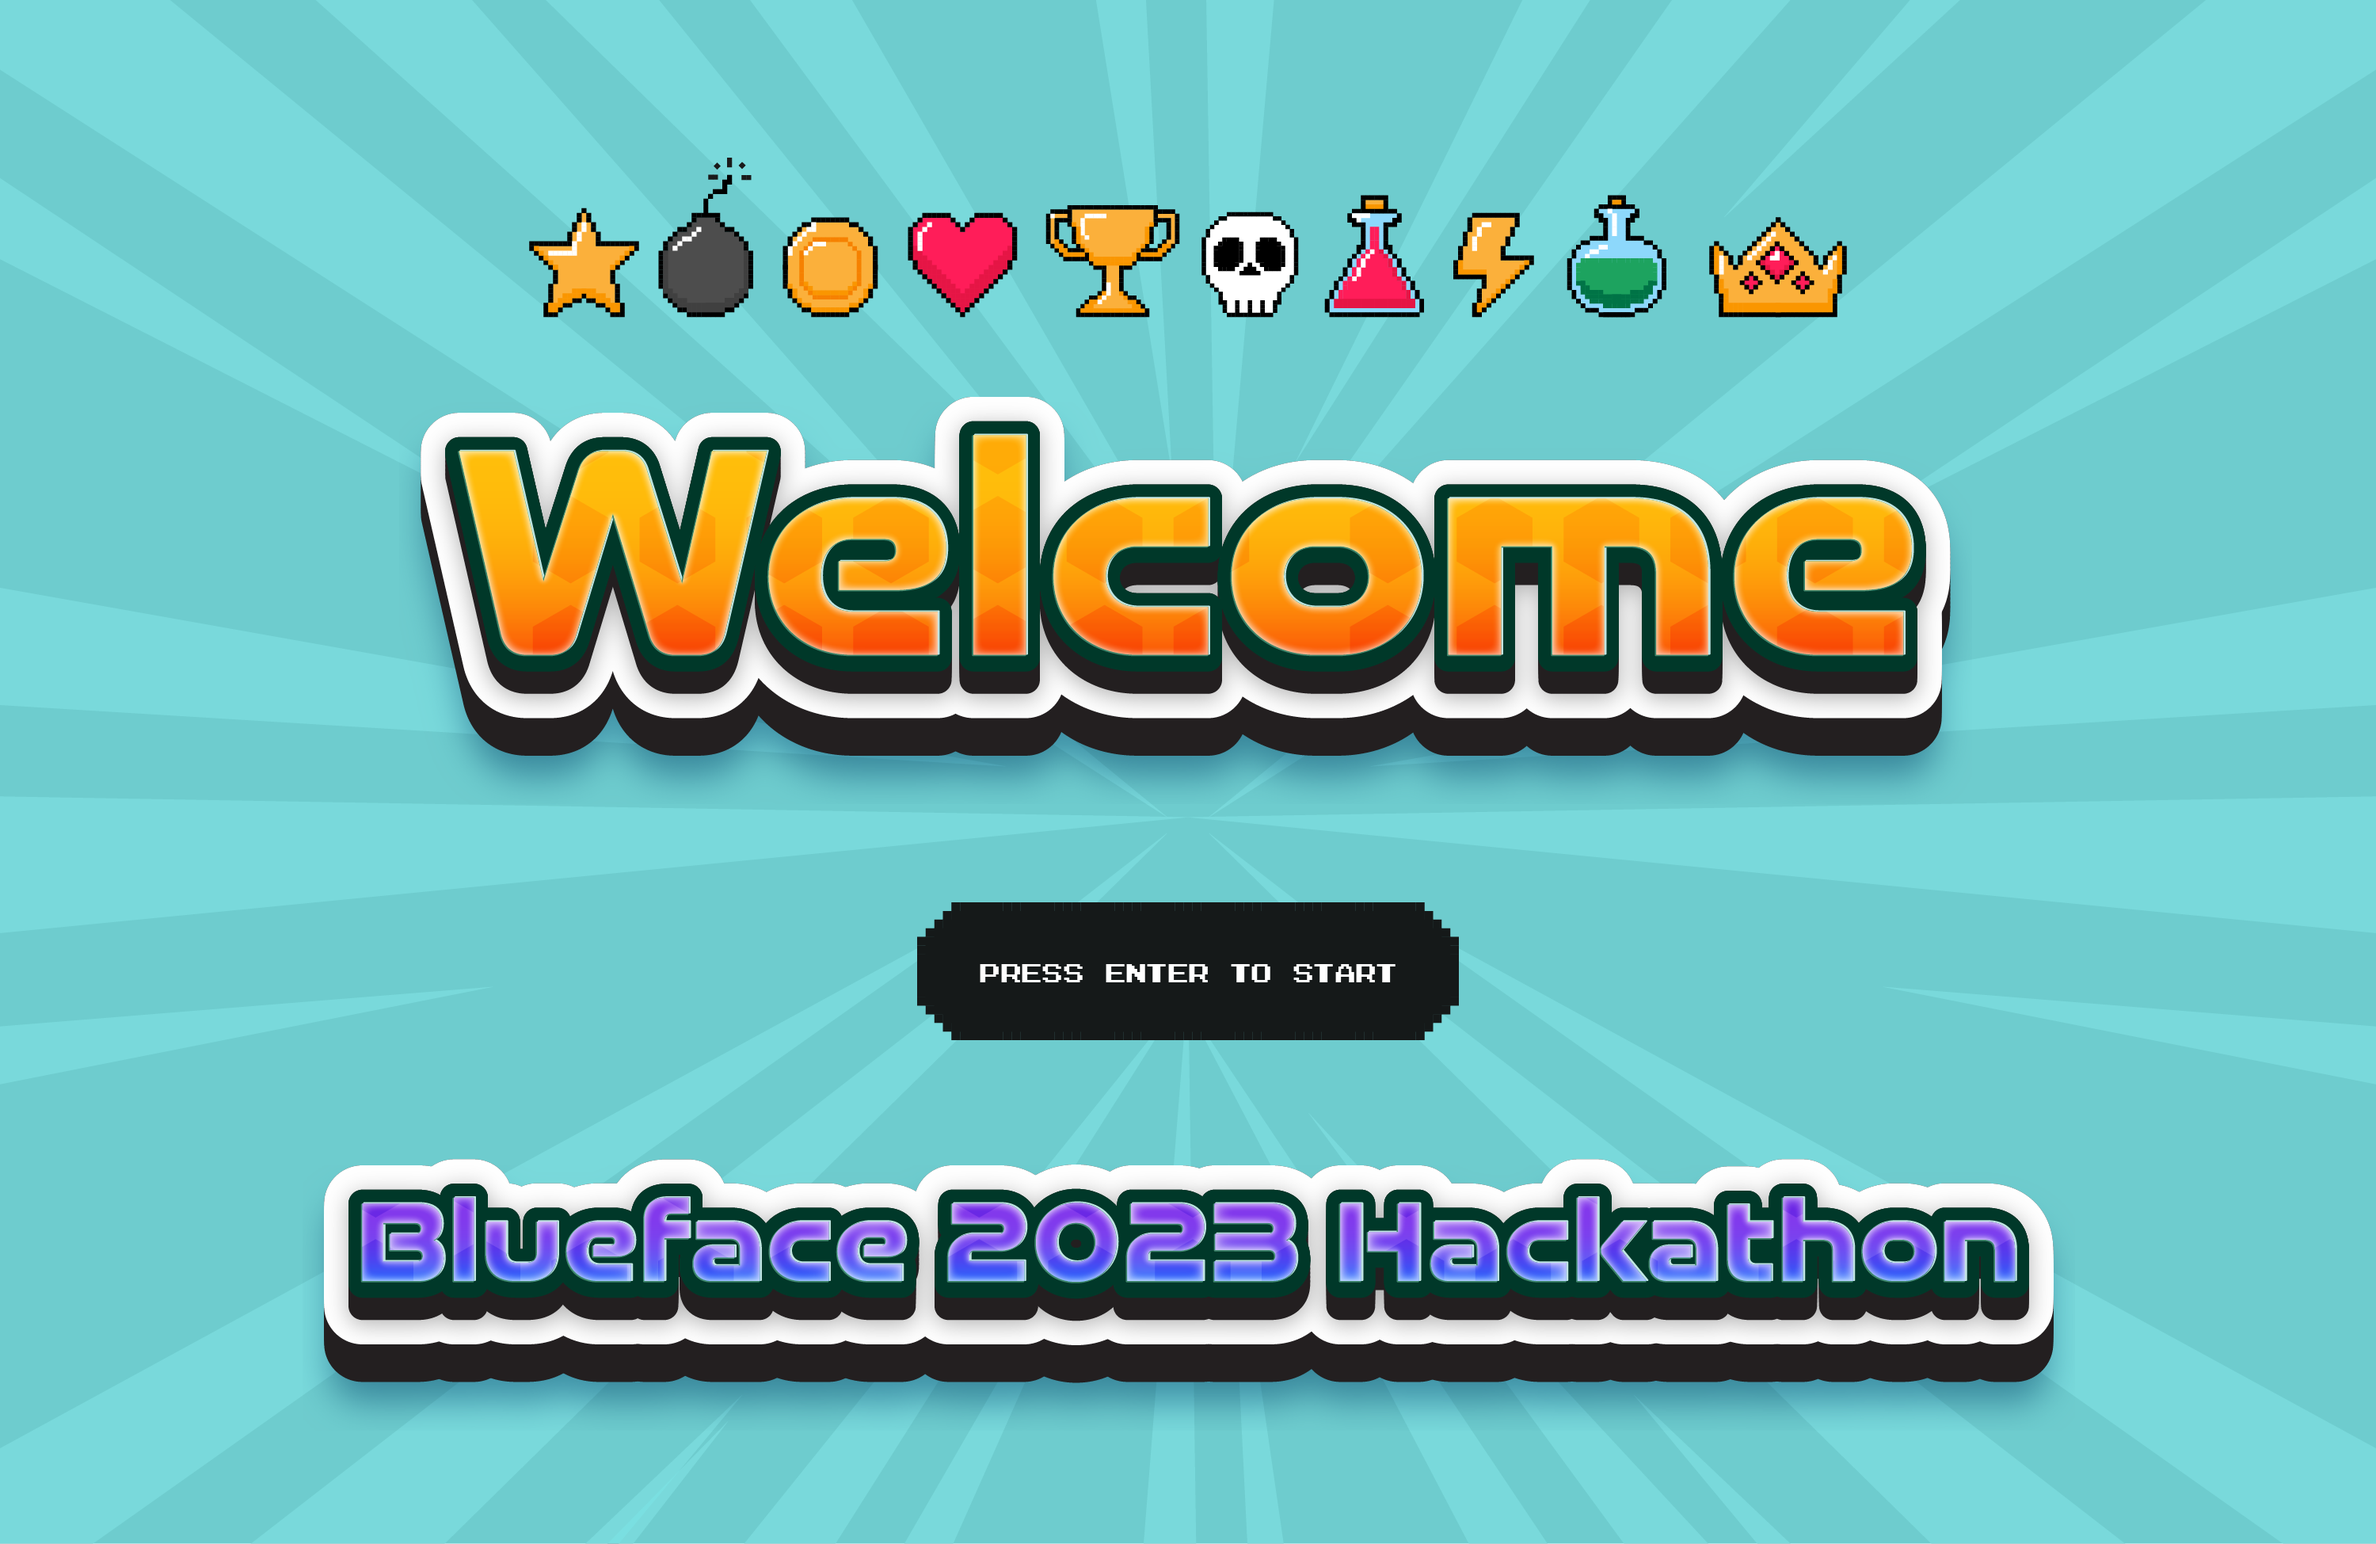
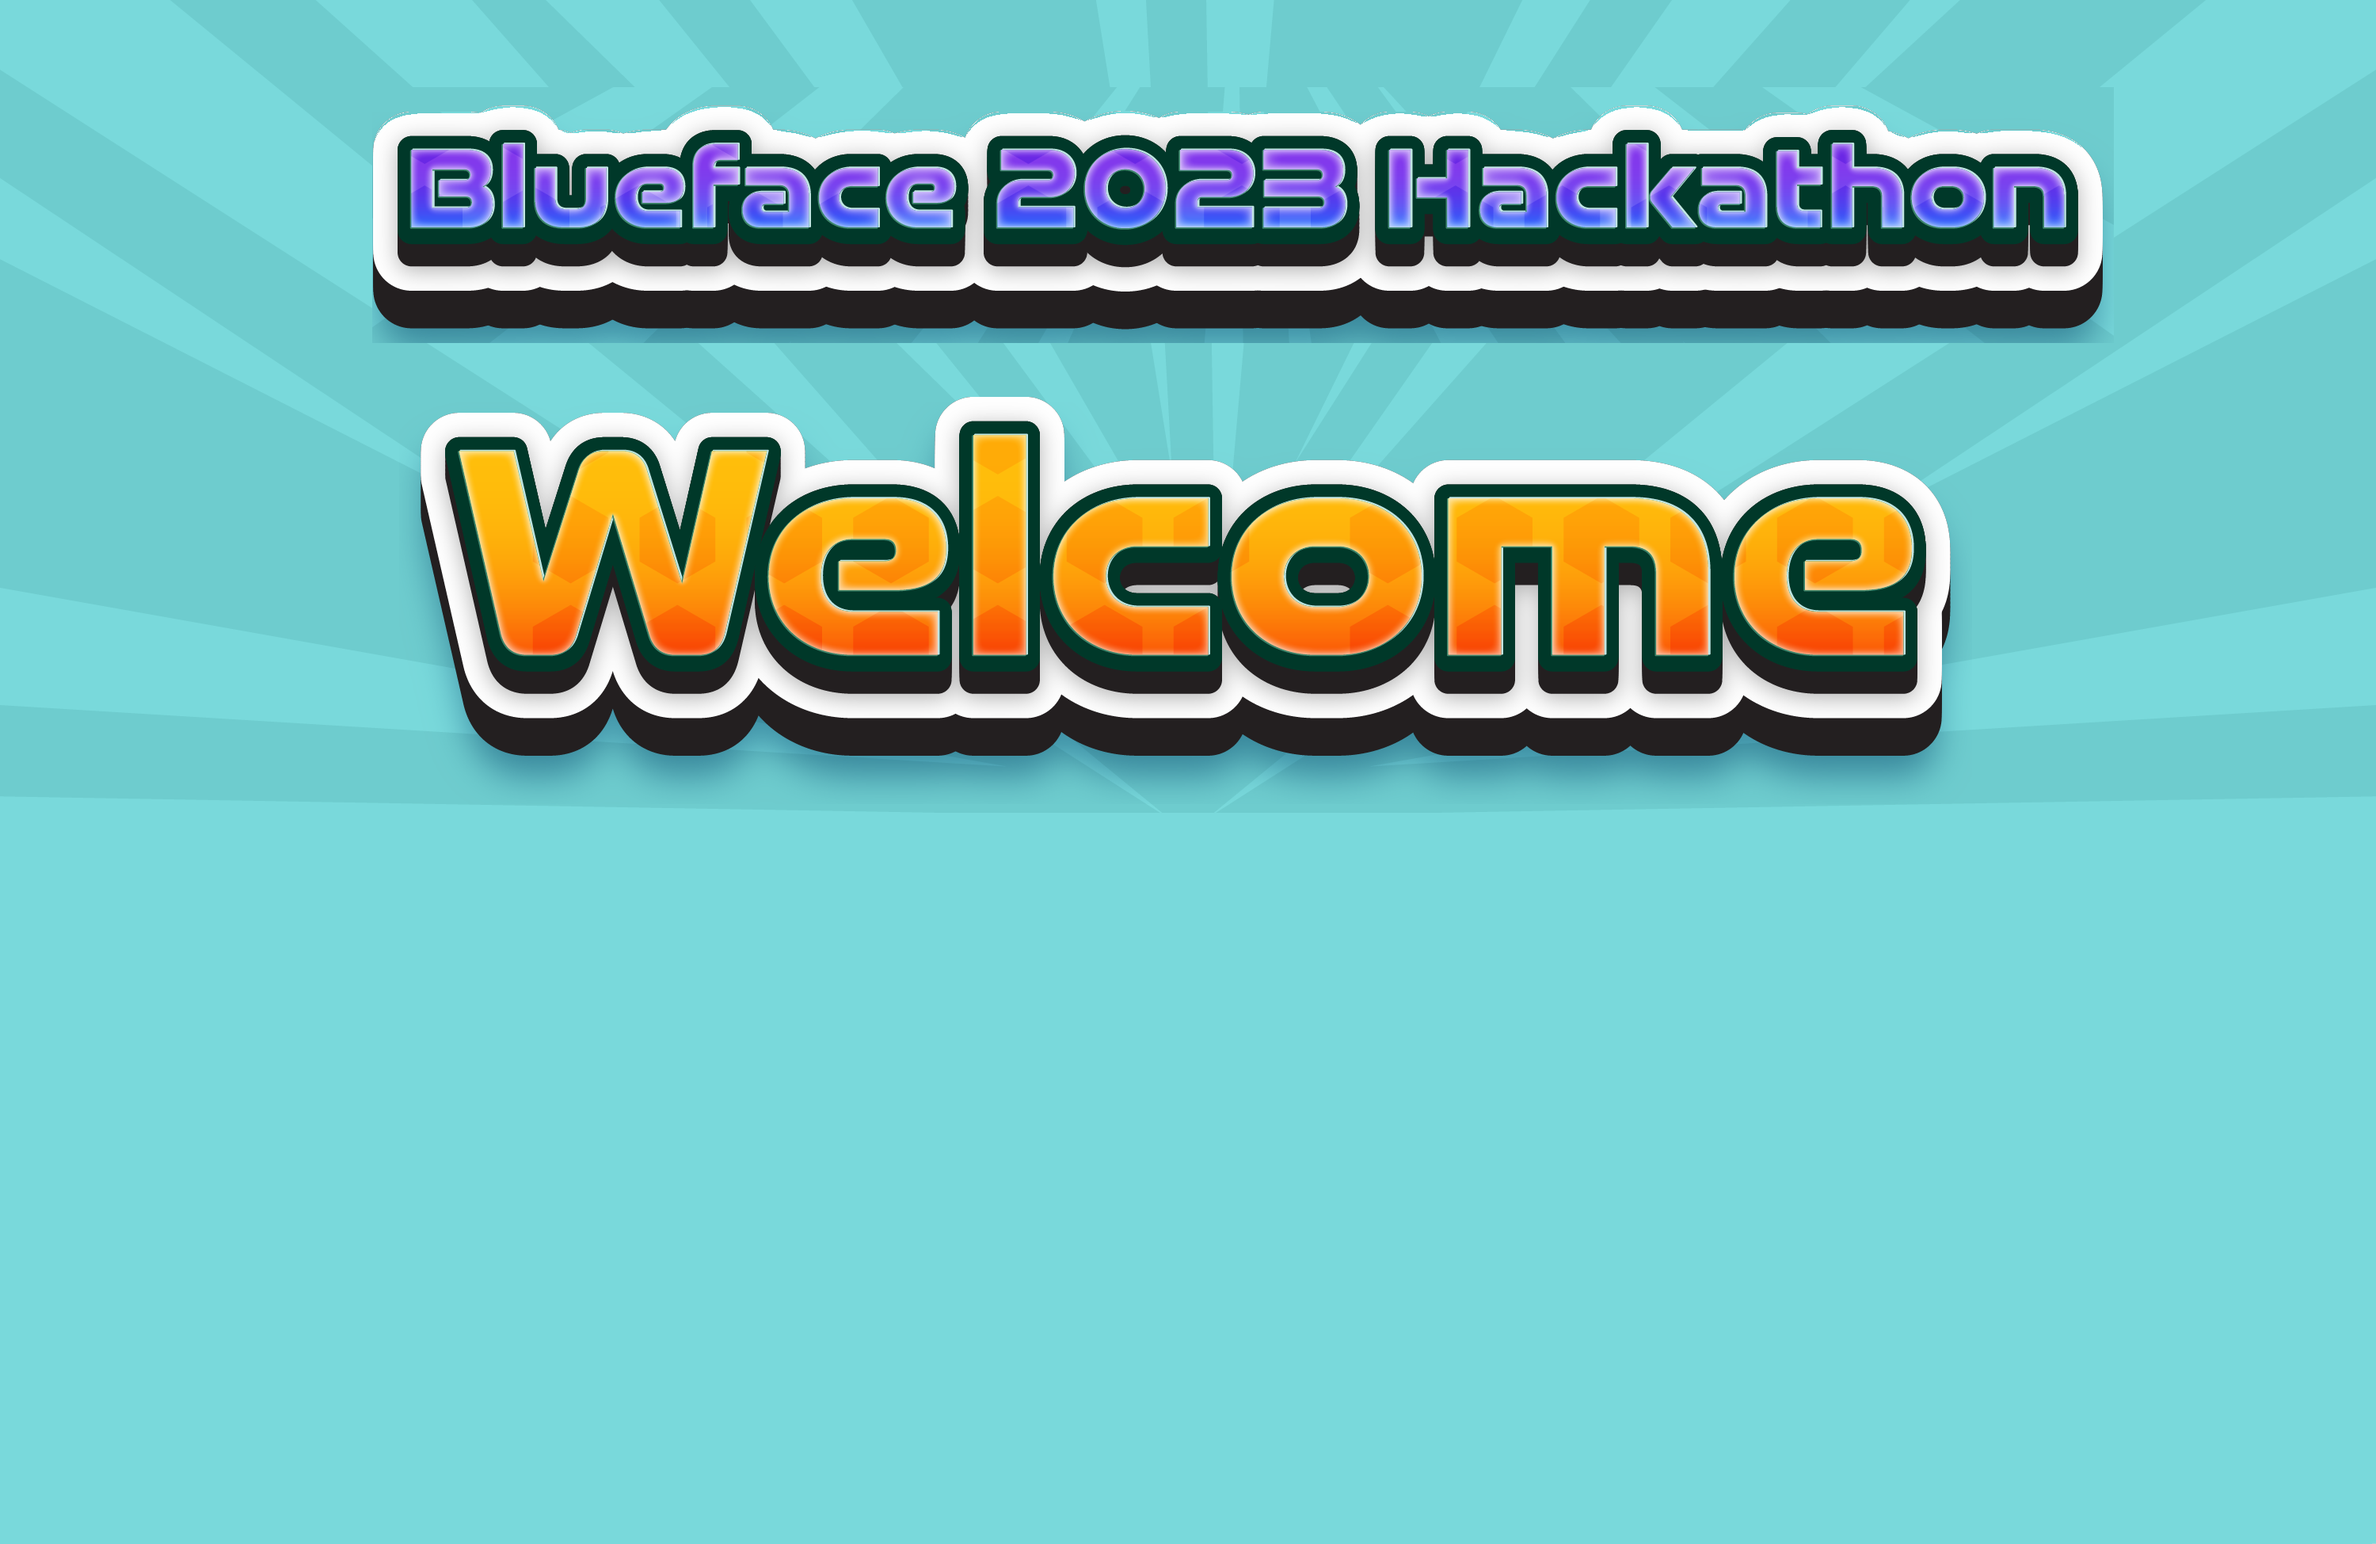
Added player selection with teams heads

Changed region(s): [[0.155, 0.0616, 0.899, 0.2463], [0.124, 0.7388, 0.868, 0.9236], [0.372, 0.5849, 0.62, 0.6773]]

diff --git a/arcade_game/arcade_platformer/view/welcome_view.py b/arcade_game/arcade_platformer/view/welcome_view.py
@@ -31,12 +31,19 @@ class WelcomeView(arcade.View):
 
         # Load our title image
         self.title_image = arcade.load_texture(title_image_path)
+        self.player_selector = arcade.load_texture(ASSETS_PATH / "images" / "player_selector.png")
+        self.player1 = arcade.load_texture(ASSETS_PATH / "images" / "vincenzo_head.png")
+        self.player2 = arcade.load_texture(ASSETS_PATH / "images" / "jayadeep_head.png")
+        self.player3 = arcade.load_texture(ASSETS_PATH / "images" / "noah_head.png")
+        self.player4 = arcade.load_texture(ASSETS_PATH / "images" / "joel_head.png")
 
         # Set our display timer
         self.display_timer = 2.0
 
         # Are we showing the instructions?
         self.show_instructions = False
+
+        self.player_sel = 1
 
     def on_update(self, delta_time: float) -> None:
         """Manages the timer to toggle the instructions
@@ -69,24 +76,40 @@ class WelcomeView(arcade.View):
             texture=self.title_image,
         )
 
-        # Should we show our instructions?
-        if self.show_instructions:
-            arcade.draw_text(
-                "Press enter to Start the game",
-                start_x=250,
-                start_y=170,
-                color=arcade.color.SELECTIVE_YELLOW,
-                font_size=30,
-            )
+        arcade.draw_texture_rectangle(center_x=125, center_y=200, width=150, height=210, texture=self.player1)
+        arcade.draw_texture_rectangle(center_x=375, center_y=200, width=150, height=210, texture=self.player2)
+        arcade.draw_texture_rectangle(center_x=625, center_y=200, width=150, height=210, texture=self.player3)
+        arcade.draw_texture_rectangle(center_x=875, center_y=200, width=150, height=210, texture=self.player4)
+
+        arcade.draw_text("PLAYER 1", start_x=40,  start_y=48, color=arcade.color.BLACK, font_size=26)
+        arcade.draw_text("PLAYER 2", start_x=290, start_y=48, color=arcade.color.BLACK, font_size=26)
+        arcade.draw_text("PLAYER 3", start_x=540, start_y=48, color=arcade.color.BLACK, font_size=26)
+        arcade.draw_text("PLAYER 4", start_x=790, start_y=48, color=arcade.color.BLACK, font_size=26)
+        if self.player_sel == 1:
+            arcade.draw_texture_rectangle(center_x=125, center_y=60, width=215, height=70, texture=self.player_selector)
+        if self.player_sel == 2:
+            arcade.draw_texture_rectangle(center_x=375, center_y=60, width=215, height=70, texture=self.player_selector)
+        if self.player_sel == 3:
+            arcade.draw_texture_rectangle(center_x=625, center_y=60, width=215, height=70, texture=self.player_selector)
+        if self.player_sel == 4:
+            arcade.draw_texture_rectangle(center_x=875, center_y=60, width=215, height=70, texture=self.player_selector)
 
     def on_key_press(self, key: int, modifiers: int) -> None:
-        """Start the game when the user presses the enter key
-
+        """
         Arguments:
             key -- Which key was pressed
             modifiers -- What modifiers were active
         """
+
+        if key == arcade.key.RIGHT and self.player_sel < 4:
+            self.player_sel = self.player_sel + 1
+
+        if key == arcade.key.LEFT and self.player_sel > 1:
+            self.player_sel = self.player_sel - 1
+
+        # Start the game when the user presses the enter key
         if key == arcade.key.RETURN:
+            self.player.set_player_num(self.player_sel)
             # Stop intro music
             self.intro_sound.stop(self.sound_player)
             # Launch Game view

diff --git a/arcade_game/arcade_platformer/player/player.py b/arcade_game/arcade_platformer/player/player.py
@@ -18,8 +18,11 @@ class Player:
     def set_physics_engine(self, physics_engine: arcade.PhysicsEnginePlatformer):
         self.physics_engine = physics_engine
 
+    def set_player_num(self, player_num):
+        self.player = self.create_player_sprite(player_num)
+
     @staticmethod
-    def create_player_sprite() -> arcade.AnimatedWalkingSprite:
+    def create_player_sprite(player_num = 1) -> arcade.AnimatedWalkingSprite:
         """Creates the animated player sprite
 
         Returns:
@@ -29,13 +32,24 @@ class Player:
         texture_path = ASSETS_PATH / "images" / "player"
 
         # Set up the appropriate textures
-        walking_paths = [
-            texture_path / f"alienGreen_walk{x}.png" for x in (1, 2)
-        ]
         climbing_paths = [
             texture_path / f"alienGreen_climb{x}.png" for x in (1, 2)
         ]
-        standing_path = texture_path / "alienGreen_stand.png"
+        if player_num == 1:
+            standing_path = texture_path / "player1_alienGreen_stand.png"
+            walking_paths = [texture_path / f"player1_alienGreen_walk{x}.png" for x in (1, 2)]
+
+        if player_num == 2:
+            standing_path = texture_path / "player2_alienGreen_stand.png"
+            walking_paths = [texture_path / f"player2_alienGreen_walk{x}.png" for x in (1, 2)]
+
+        if player_num == 3:
+            standing_path = texture_path / "player3_alienGreen_stand.png"
+            walking_paths = [texture_path / f"player3_alienGreen_walk{x}.png" for x in (1, 2)]
+
+        if player_num == 4:
+            standing_path = texture_path / "player4_alienGreen_stand.png"
+            walking_paths = [texture_path / f"player4_alienGreen_walk{x}.png" for x in (1, 2)]
 
         # Load them all now
         walking_right_textures = [
